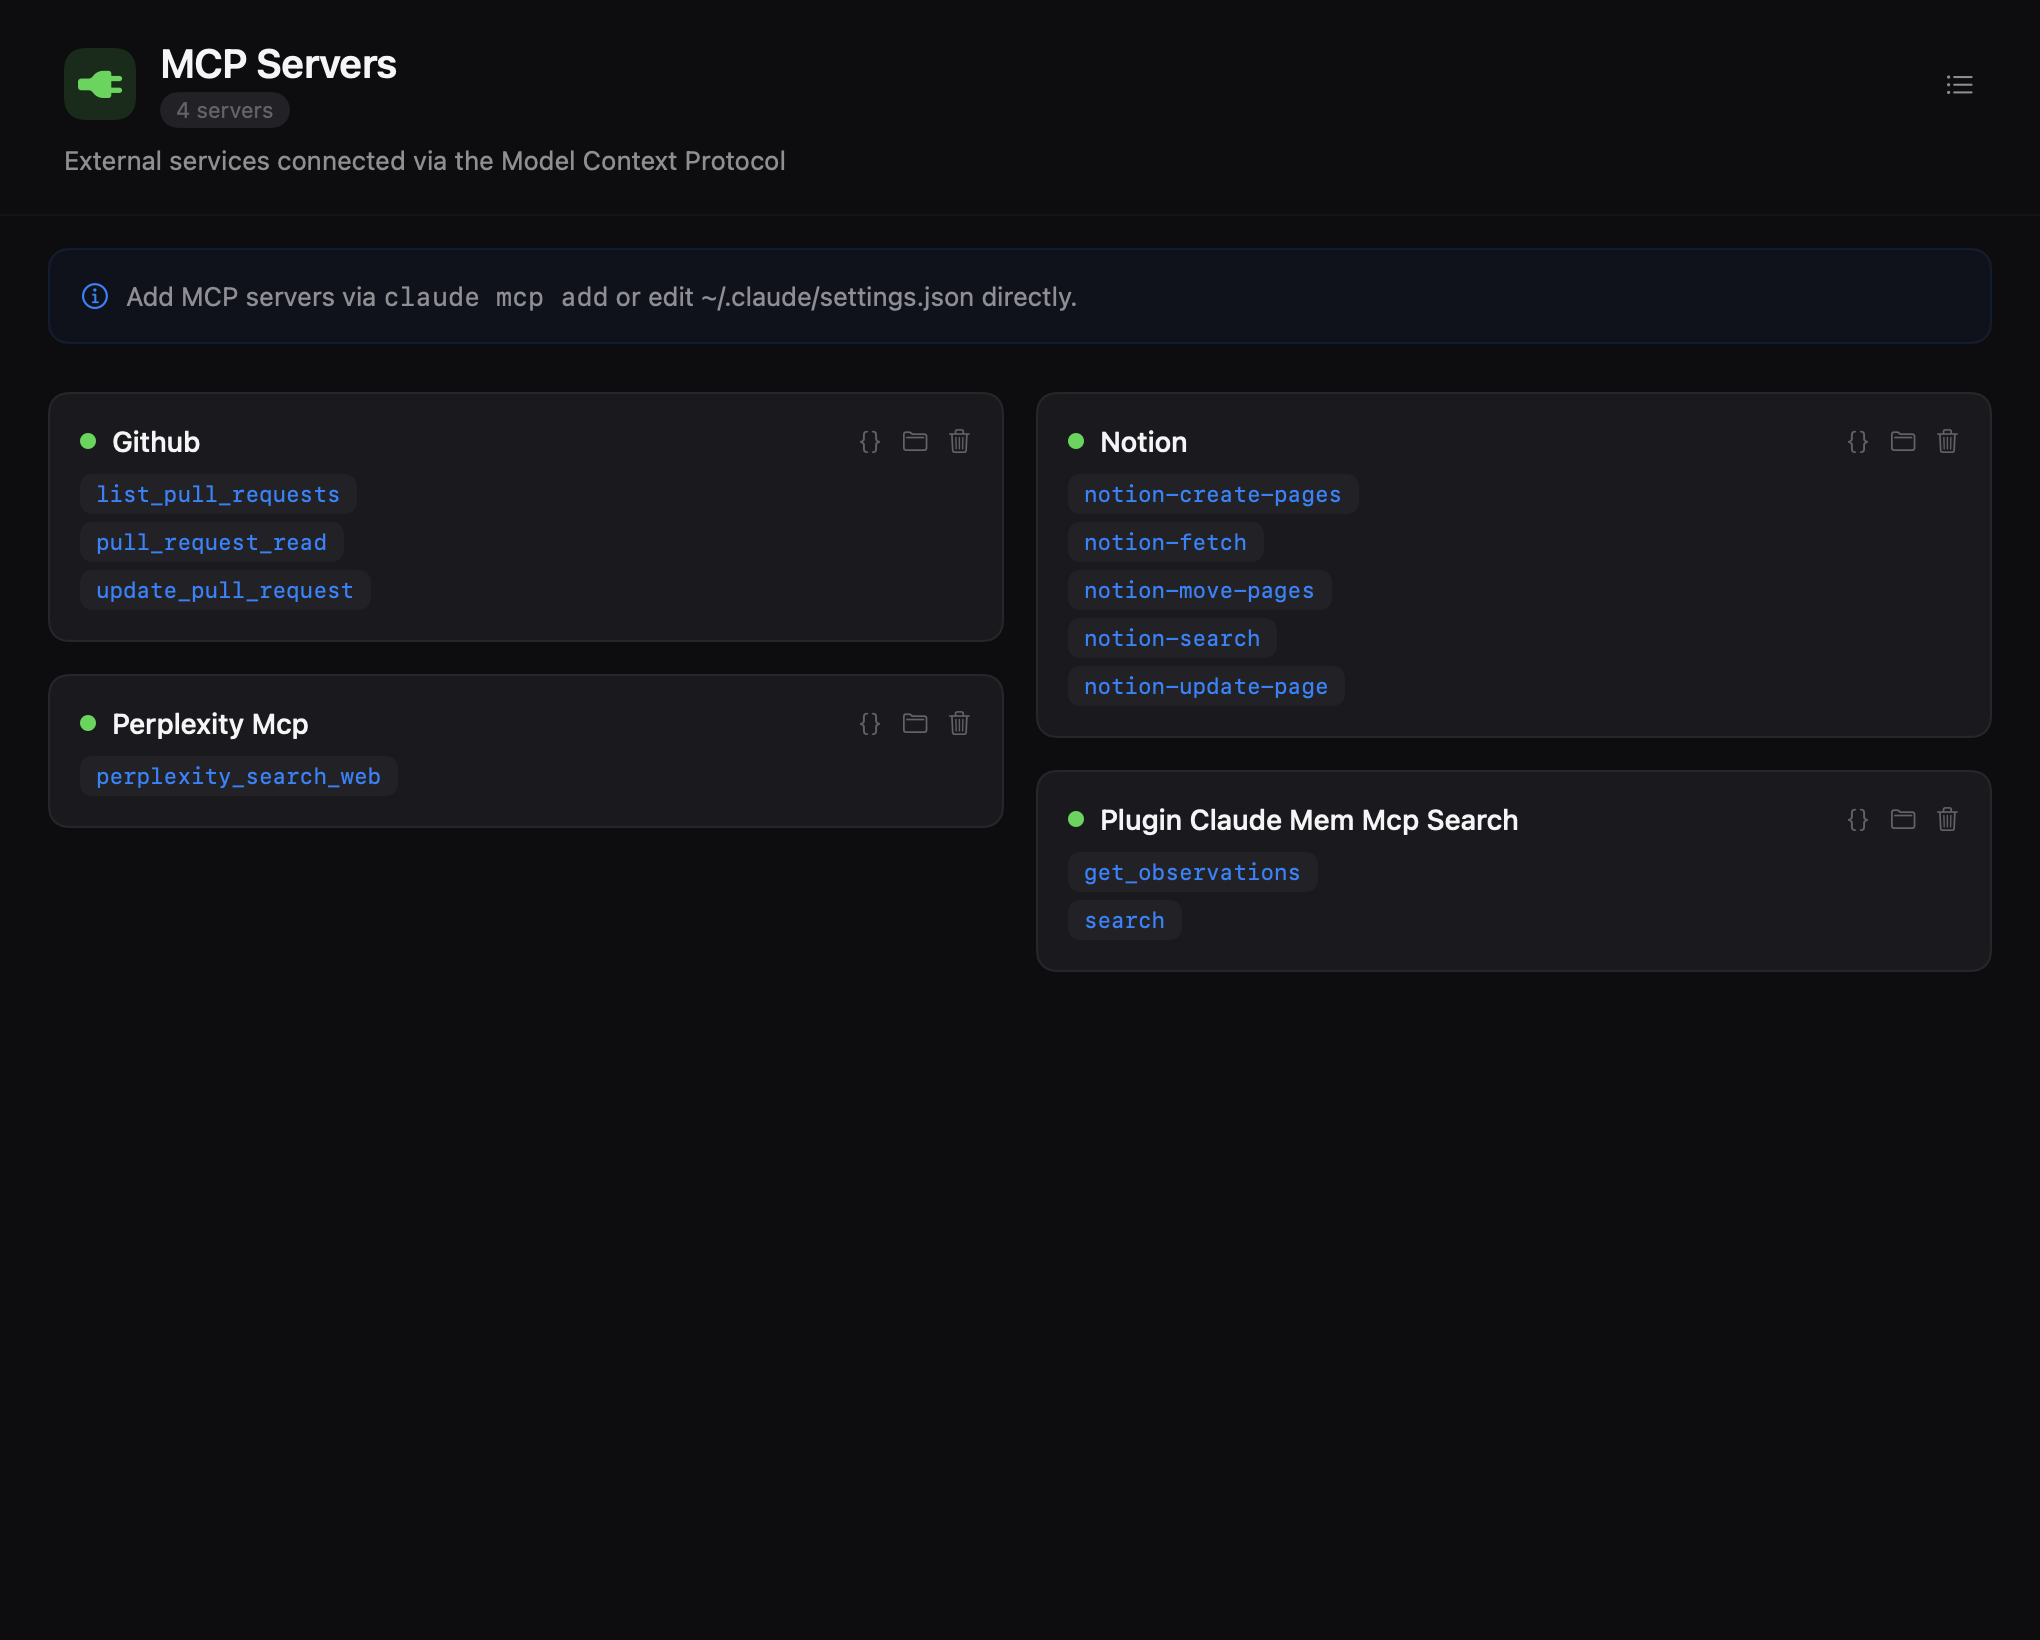
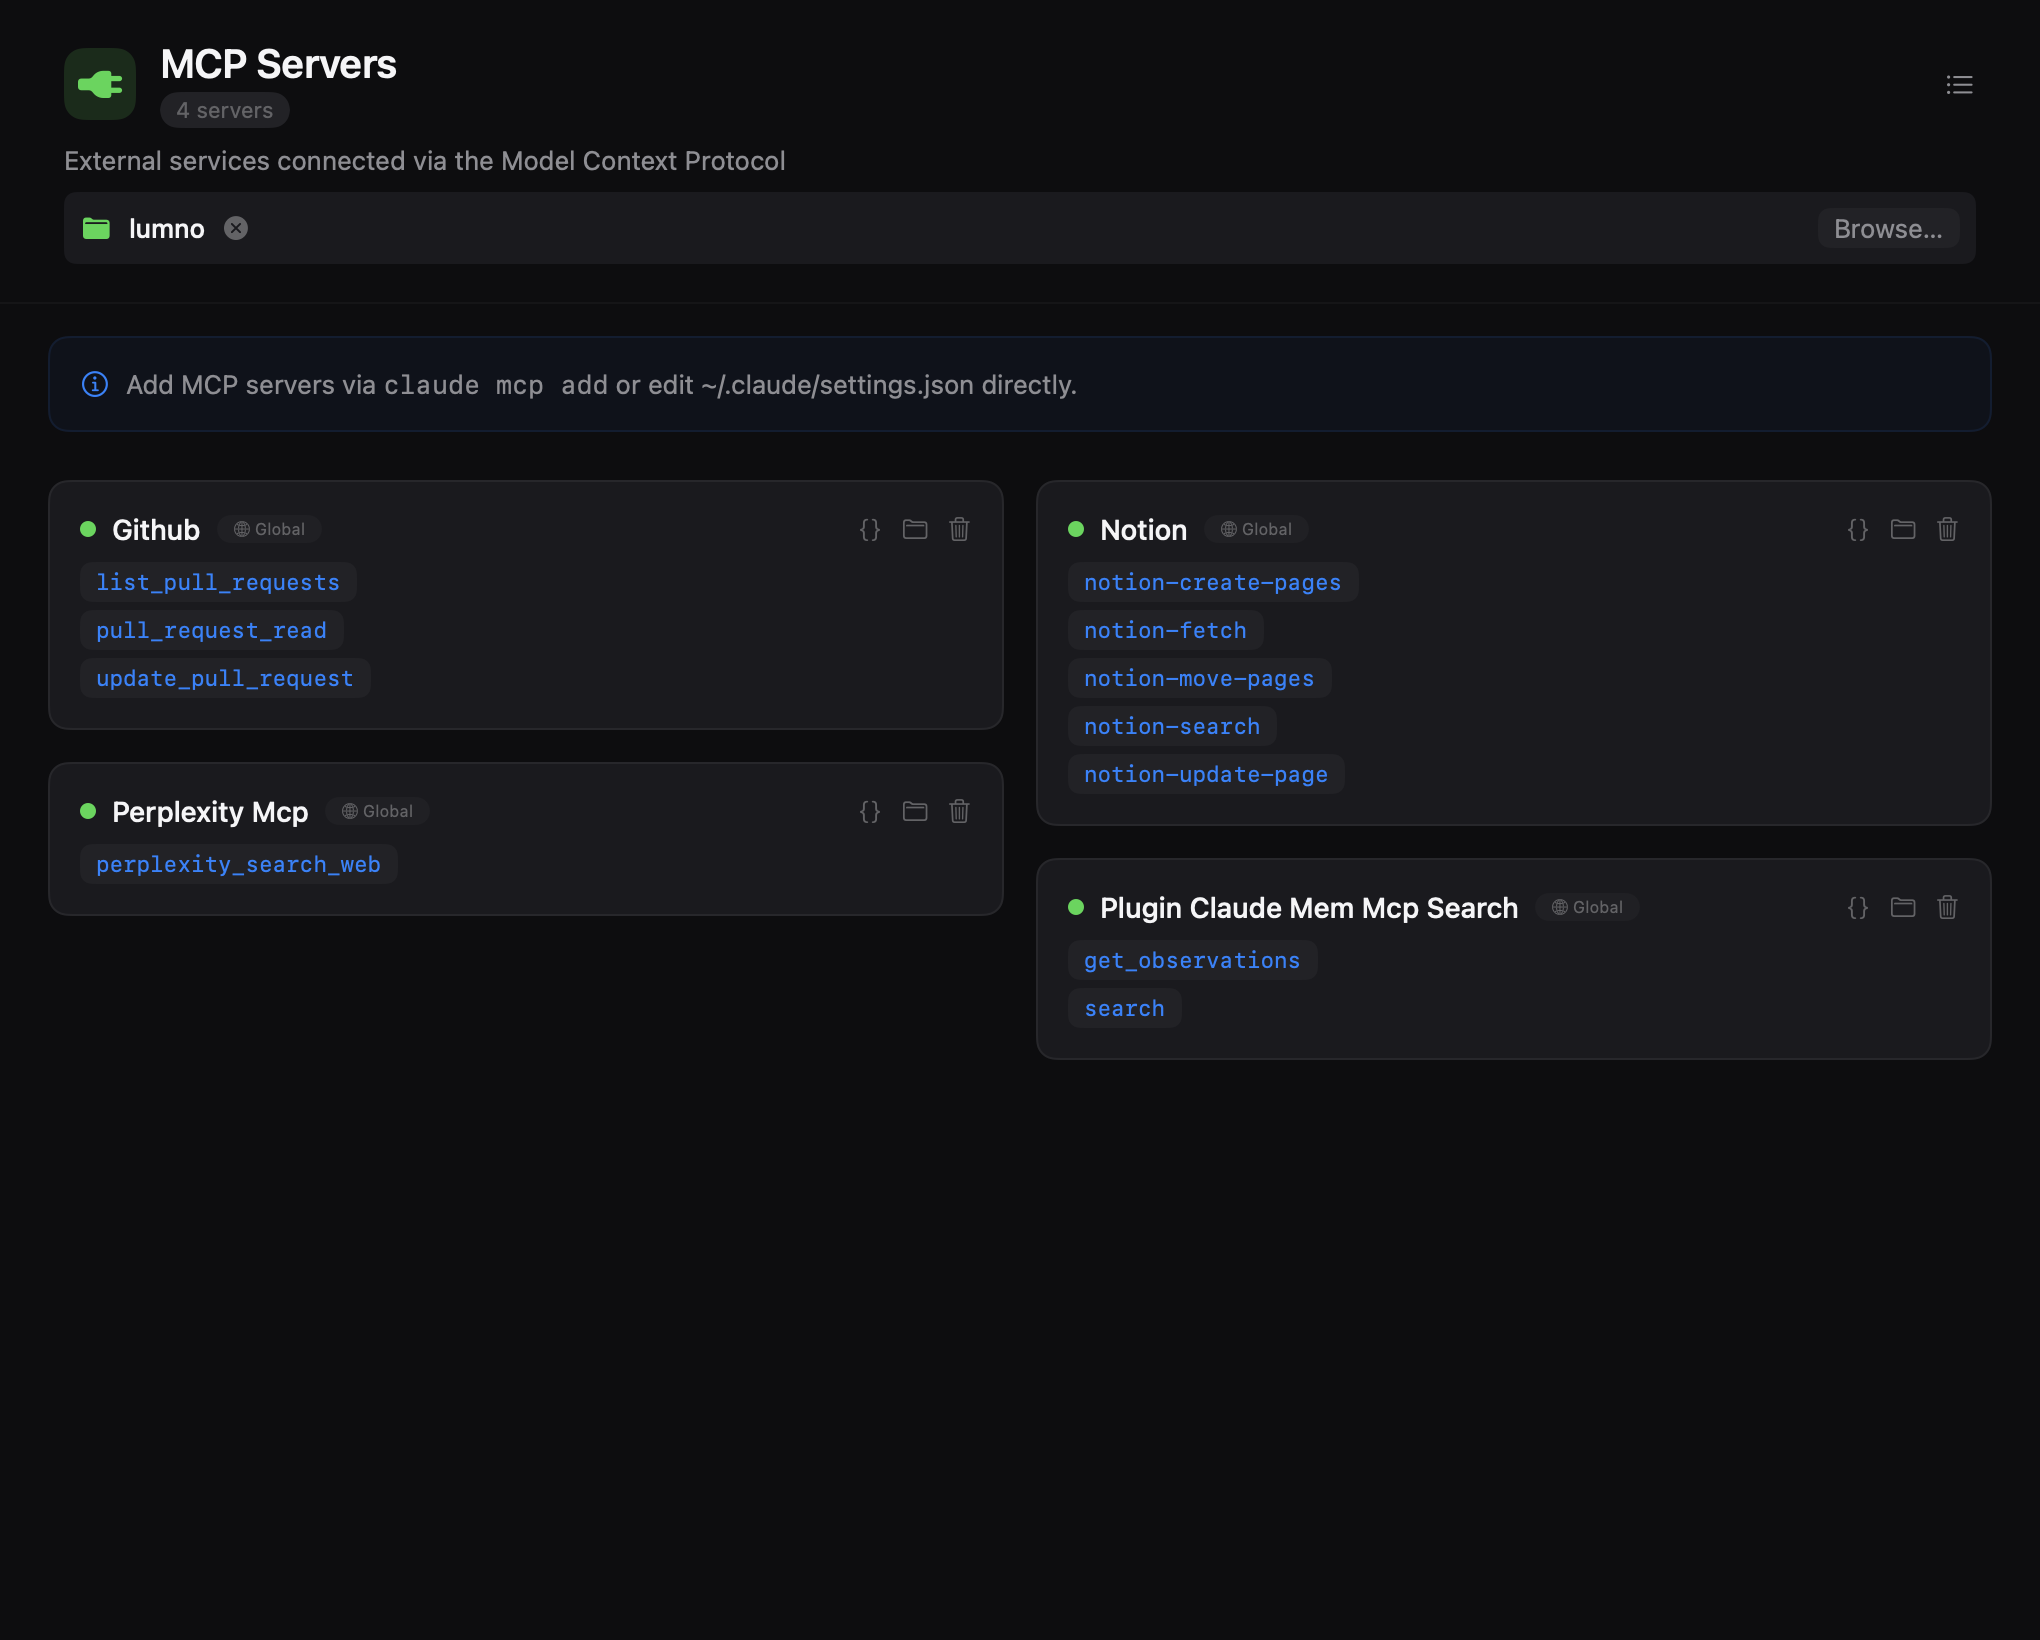
Add project-selected config screenshots and refresh showcase images

diff --git a/PoirotTests/Screenshots/ScreenshotTests_ConfigScreens.swift b/PoirotTests/Screenshots/ScreenshotTests_ConfigScreens.swift
@@ -114,6 +114,56 @@ struct ScreenshotTests_ConfigScreens {
         )
     }
 
+    // MARK: - Config List Views (with project selected)
+
+    @Test
+    func testCommandsListWithProject() async throws {
+        let state = makeAppState(configProjectPath: "/Users/leonardocardoso/Dev/git/business/lumno")
+        try await snapshotView(
+            withEnvironment(
+                CommandsListView(item: configItem(id: "commands")),
+                state: state,
+                provider: provider
+            ),
+            size: ScreenshotSize.mainContent,
+            named: "testCommandsListWithProject",
+            record: isRecording,
+            delay: 1
+        )
+    }
+
+    @Test
+    func testSkillsListWithProject() async throws {
+        let state = makeAppState(configProjectPath: "/Users/leonardocardoso/Dev/git/business/lumno")
+        try await snapshotView(
+            withEnvironment(
+                SkillsListView(item: configItem(id: "skills")),
+                state: state,
+                provider: provider
+            ),
+            size: ScreenshotSize.mainContent,
+            named: "testSkillsListWithProject",
+            record: isRecording,
+            delay: 1
+        )
+    }
+
+    @Test
+    func testMCPServersListWithProject() async throws {
+        let state = makeAppState(configProjectPath: "/Users/leonardocardoso/Dev/git/business/lumno")
+        try await snapshotView(
+            withEnvironment(
+                MCPServersListView(item: configItem(id: "mcpServers")),
+                state: state,
+                provider: provider
+            ),
+            size: ScreenshotSize.mainContent,
+            named: "testMCPServersListWithProject",
+            record: isRecording,
+            delay: 1
+        )
+    }
+
     // MARK: - Config Screen Header
 
     @Test

diff --git a/PoirotTests/Screenshots/Helpers/ScreenshotTestHelpers.swift b/PoirotTests/Screenshots/Helpers/ScreenshotTestHelpers.swift
@@ -96,7 +96,8 @@ func makeAppState(
     sessionSearchQuery: String = "",
     isToolFilterActive: Bool = false,
     activeToolFilters: Set<String> = [],
-    toastQueue: [Toast] = []
+    toastQueue: [Toast] = [],
+    configProjectPath: String? = nil
 ) -> AppState {
     let state = AppState()
     state.projects = projects
@@ -111,6 +112,7 @@ func makeAppState(
     state.isToolFilterActive = isToolFilterActive
     state.activeToolFilters = activeToolFilters
     state.toastQueue = toastQueue
+    state.configProjectPath = configProjectPath
     return state
 }
 
